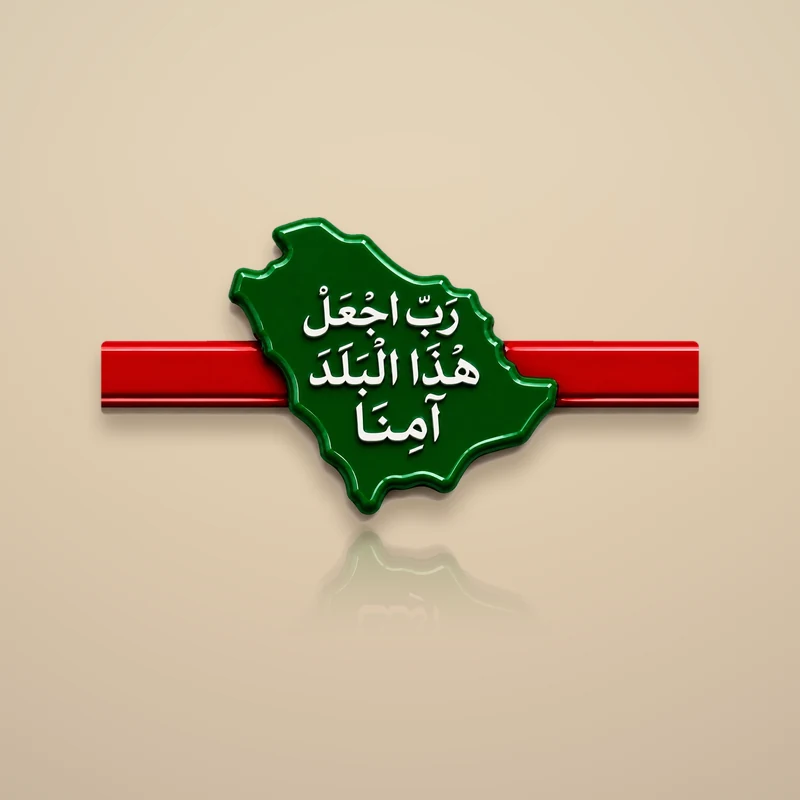
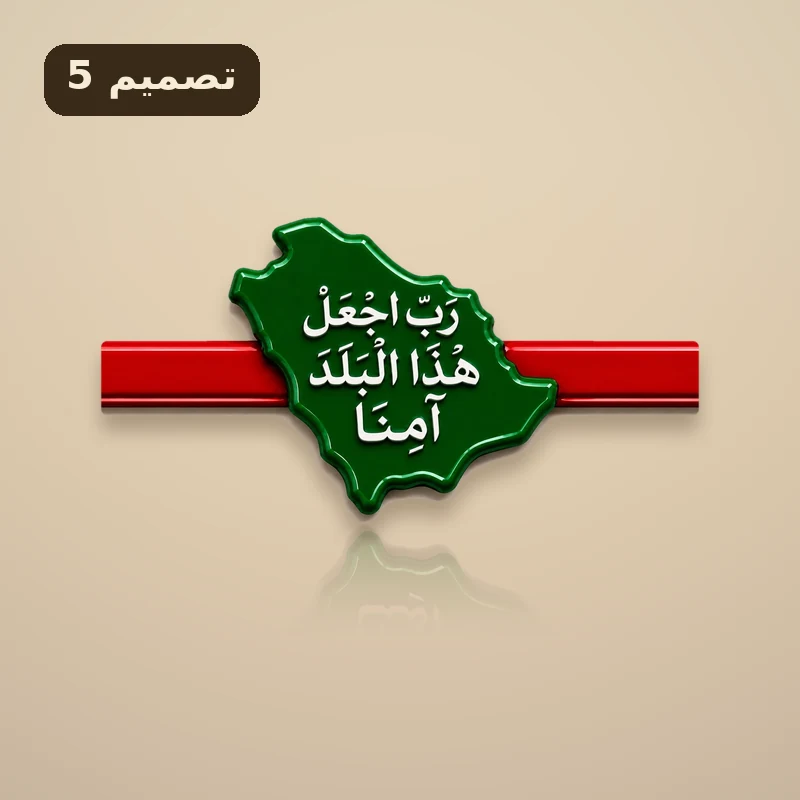
redline: سعر لكل تصميم حسب وزنه، اختيار رقم التصميم، رقم التصميم على كل صورة، عرض الـ100 يشمل الكل
Claude-Session: https://claude.ai/code/session_017P9QyCJgykdsNfd9KJgfgW

Changed region(s): [[0.0312, 0.0312, 0.3438, 0.1562]]

diff --git a/app.js b/app.js
@@ -5,14 +5,14 @@ const WEIGHT=Object.fromEntries([..._pd.match(/const WEIGHT=\{([\s\S]*?)\};/)[1]
 const IMG={"redline": {"thumb": "thumbs/redline.jpg"}, "cool": {"thumb": "thumbs/cool.jpg"}, "hdcookie": {"thumb": "thumbs/hdcookie.jpg"}, "batbox": {"thumb": "thumbs/batbox.jpg"}, "hdbuddy": {"thumb": "thumbs/hdbuddy.jpg"}, "hdtray": {"thumb": "thumbs/hdtray.jpg"}, "hdclock": {"thumb": "thumbs/hdclock.jpg"}, "wilson": {"thumb": "thumbs/wilson.jpg"}, "snoopy": {"thumb": "thumbs/snoopy.jpg"}, "pcorn": {"thumb": "thumbs/pcorn.jpg"}, "gmug": {"thumb": "thumbs/gmug.jpg"}, "drip": {"thumb": "thumbs/drip.jpg"}, "knobs": {"thumb": "thumbs/knobs.jpg"}, "xkit": {"thumb": "thumbs/xkit.jpg"}, "ttt": {"thumb": "thumbs/ttt.jpg"}, "fncs": {"thumb": "thumbs/fncs.jpg"}, "fish": {"thumb": "thumbs/fish.jpg"}, "disney": {"thumb": "thumbs/disney.jpg"}, "crown": {"thumb": "thumbs/crown.jpg"}, "ltr": {"thumb": "thumbs/ltr.jpg"}, "d2": {"thumb": "thumbs/d2.jpg"}, "d5": {"thumb": "thumbs/d5.jpg"}, "d6": {"thumb": "thumbs/d6.jpg"}, "skel": {"thumb": "thumbs/skel.jpg"}, "lamp": {"thumb": "thumbs/lamp.jpg"}, "lampman": {"thumb": "thumbs/lampman.jpg"}, "pmaskl": {"thumb": "thumbs/pmaskl.jpg"}, "pmaskm": {"thumb": "thumbs/pmaskm.jpg"}, "pmasks": {"thumb": "thumbs/pmasks.jpg"}, "cubea": {"thumb": "thumbs/cubea.jpg"}, "cubeb": {"thumb": "thumbs/cubeb.jpg"}, "ks1": {"thumb": "thumbs/ks1.jpg"}, "ks2": {"thumb": "thumbs/ks2.jpg"}, "ks3": {"thumb": "thumbs/ks3.jpg"}, "kcm": {"thumb": "thumbs/kcm.jpg"}, "chips": {"thumb": "thumbs/chips.jpg"}, "pringles": {"thumb": "thumbs/pringles.jpg"}, "clips": {"thumb": "thumbs/clips.jpg"}, "monk": {"thumb": "thumbs/monk.jpg"}, "ghost": {"thumb": "thumbs/ghost.jpg"}, "abst": {"thumb": "thumbs/abst.jpg"}, "w1": {"thumb": "thumbs/w1.jpg"}, "w2": {"thumb": "thumbs/w2.jpg"}, "w4": {"thumb": "thumbs/w4.jpg"}, "w5": {"thumb": "thumbs/w5.jpg"}, "vase": {"thumb": "thumbs/vase.jpg"}, "vase2": {"thumb": "thumbs/vase2.jpg"}, "vase3": {"thumb": "thumbs/vase3.jpg"}};
 const COLORS=[["اللون الأساسي",null],["أبيض","#f3f1ec"],["أسود","#242424"],["رمادي","#8f969a"],["أحمر","#cc2f2f"],["برتقالي","#ee7a1f"],["أصفر","#f2c22c"],["أخضر","#2f9a57"],["أزرق","#2a5cc8"],["بنفسجي","#7a4cc2"],["وردي","#ee6f9e"],["ذهبي","#c79a32"],["بني","#6e4a2e"]];
 const XIMG={redline:[1,2,3,4,5].map(n=>`hq/redline-x${n}.webp`),hdcookie:["hq/hdcookie-x1.webp"],batbox:["hq/batbox-x1.webp"]};   /* extra photos per piece (shown as small buttons over the main image): hq/<id>-x1.webp ... */
-const xth=id=>XIMG[id]?`<div class="xth">${[`hq/${id}-0.webp`,...XIMG[id]].map((s,i)=>`<button type="button" data-x="${s}"${i?"":' data-main="1"'} aria-pressed="${i===0}" aria-label="صورة ${i+1}"><img src="${s}" width="56" height="56" alt="" loading="lazy"></button>`).join("")}</div>`:"";
+const xth=id=>XIMG[id]?`<div class="xth">${[`hq/${id}-0.webp`,...XIMG[id]].map((s,i)=>`<button type="button" data-x="${s}"${i?"":' data-main="1"'} aria-pressed="${i===0}" aria-label="${DISTP[id]&&DISTP[id].v&&i?`تصميم ${i}`:`صورة ${i+1}`}"><img src="${s}" width="56" height="56" alt="" loading="lazy">${DISTP[id]&&DISTP[id].v&&i?`<i class="xn">${i}</i>`:""}</button>`).join("")}</div>`:"";
 const HID=new Set([9]); /* purple: not stocked, hidden from every colour picker (index kept so the 13-image numbering and old carts stay valid) */
 const OUT=new Set((()=>{try{const a=JSON.parse(localStorage.getItem("rax3d_out")||"null");if(Array.isArray(a))return COLORS.map((c,i)=>i&&a.includes(c[0])?i:0).filter(Boolean)}catch(_){}return[]})()); /* colours not in stock right now: last list from the invoicing app (stock tab, via the worker /stock), else 9 = purple */
 const DUCK="تعليقة سيارة أو ديكور طبلون", KS="ميدالية مفاتيح وستاند جوال", XB="إكسسوار مكينة xBloom";
 /* PRICES:START — generated from the invoicing-app formula (print file weight + time, shared settings). [single, wholesale(=set)] */
 const OLD={};
 /* عروض خاصة: DISTOFF = سعر الحبة المخفّض لشريحة توزيعات {id:{الكمية:سعر الحبة}}. أي قطعة لها سعر قديم في OLD أو عرض في DISTOFF تظهر تلقائيًا في قسم «التخفيضات» وعليها شارة «عرض خاص». */
-const DISTOFF={cool:{100:2.99},redline:{100:2.99}},SALE_CAT="التخفيضات",isSale=id=>!!(OLD[id]||(DISTOFF[id]&&Object.keys(DISTOFF[id]).length));
+const DISTOFF={cool:{100:2.99},redline:{100:2.99},"redline#3":{100:4.70}},SALE_CAT="التخفيضات",isSale=id=>!!(OLD[id]||(DISTOFF[id]&&Object.keys(DISTOFF[id]).length));
 /* PRICES:END */
 const ITEMS=[
  {id:"redline",cat:"التوزيعات",name:"السعودية خط أحمر",use:"خمسة تصاميم وطنية مجسمة للتوزيعات، ابتداءً من 50 حبة",sp:1},
@@ -185,18 +185,24 @@ function catView(c){
 /* Giveaway (التوزيعات) price tabs on the piece page: quantity tabs, each showing the unit price, the total and the approximate days.
    DISTP = per giveaway piece: g = grams, h = print hours per piece. Same formula, margins and floors as tools/dist-price.py and distUnit in the invoicing app:
    cost = (g*0.138 + h*1.15)*1.05 + 0.5; price = max(ceil((cost + 1.2/q)/(0.968 - margin)) to 0.05, floor); days = ceil(q*h/24) + DIST_BUF (prep + packing). A new giveaway only needs its entry here. */
-const DISTX={redline:{n:3,p:4.70}}; /* design that costs much more than the average (plate 3 of redline, 3.52 cost): one price, net about 1 SAR per piece at every quantity */
-const DISTP={redline:{g:8.68,h:0.611},cool:{g:2.55,h:0.357}},DIST_T=[[50,25,3.75],[100,20,3.40],[500,15,3.00],[1000,10,2.65]],DIST_BUF=2;
-function distRow(id,q){const d=DISTP[id],t=DIST_T.find(x=>x[0]===q);if(!d||!t)return null;const cost=(d.g*0.138+d.h*1.15)*1.05+0.5,raw=Math.ceil(((cost+1.2/q)/(0.968-t[1]/100))/0.05-1e-9)*0.05,p0=Math.round(Math.max(raw,t[2])*100)/100,off=(DISTOFF[id]||{})[q],p=off||p0;return{q,p,tot:Math.round(p*q),days:Math.ceil(q*d.h/24-1e-9)+DIST_BUF,old:off&&off<p0?{p:p0,tot:Math.round(p0*q)}:null}}
+const DISTX={"redline#3":{50:4.95,100:4.85,500:4.75,1000:4.70}}; /* price overrides per design {id#n:{qty:price}}: redline design 3 (plate 3, cost 3.52) is priced so the net stays >= 1 SAR per piece at every quantity, still falling with the quantity */
+const DISTP={redline:{def:1,v:{1:{g:7.80,h:0.5772},2:{g:6.54,h:0.5106},3:{g:13.69,h:0.8611},4:{g:7.67,h:0.5508},5:{g:7.70,h:0.5556}}},cool:{g:2.55,h:0.357}},DIST_T=[[50,25,3.75],[100,20,3.40],[500,15,3.00],[1000,10,2.65]],DIST_BUF=2;
+function distRow(id,q,n){const D=DISTP[id],t=DIST_T.find(x=>x[0]===q);if(!D||!t)return null;if(D.v&&!n)n=D.def||1;const d=D.v?D.v[n]:D;if(!d)return null;const k=D.v?id+"#"+n:id,cost=(d.g*0.138+d.h*1.15)*1.05+0.5,raw=Math.ceil(((cost+1.2/q)/(0.968-t[1]/100))/0.05-1e-9)*0.05,ov=(DISTX[k]||{})[q],p0=ov||Math.round(Math.max(raw,t[2])*100)/100,off=(DISTOFF[k]||DISTOFF[id]||{})[q],p=off||p0;return{q,n,p,tot:Math.round(p*q),days:Math.ceil(q*d.h/24-1e-9)+DIST_BUF,old:off&&off<p0?{p:p0,tot:Math.round(p0*q)}:null}}
+const distNs=id=>DISTP[id]&&DISTP[id].v?Object.keys(DISTP[id].v).map(Number):[],distMin=(id,q)=>distNs(id).length?Math.min(...distNs(id).map(n=>distRow(id,q,n).p)):distRow(id,q).p;
+function distSel(id,n){const pn=$("#dpanel");if(!pn)return;pn.dataset.n=n;pn.innerHTML=distPanel(id,+pn.dataset.q,n);document.querySelectorAll(".dsel button").forEach(b=>b.setAttribute("aria-selected",+b.dataset.dn===n));const x=XIMG[id]&&XIMG[id][n-1],p=$("#pv");if(x&&p){p.src=x;document.querySelectorAll(".xth button").forEach(b=>b.setAttribute("aria-pressed",b.dataset.x===x))}}
 function distDays(n){return LANG==="en"?`About ${n} day${n>1?"s":""}`:`نحو ${n} ${n<=2?(n===1?"يوم":"يومين"):n<=10?"أيام":"يومًا"}`}
-function distPanel(id,q){const r=distRow(id,q),L=LANG==="en";if(!r)return"";const o=r.old;return (o?`<div class="dp-sale">🔥 ${L?"Special offer":"عرض خاص"}</div>`:"")+`<div class="dp-row"><span>${L?"Price per piece":"سعر الحبة"}</span><b>${o?`<s class="old">${o.p.toFixed(2)}</s> `:""}${r.p.toFixed(2)} ${L?"SAR":"ريال"}</b></div><div class="dp-row"><span>${L?"Total":"الإجمالي"}</span><b>${o?`<s class="old">${o.tot.toLocaleString("en-US")}</s> `:""}${r.tot.toLocaleString("en-US")} ${L?"SAR":"ريال"}</b></div><div class="dp-row"><span>${L?"Approx. time":"المدة التقريبية"}</span><b>${distDays(r.days)}</b></div>`+(DISTX[id]?`<div class="dp-row"><span>${L?`Design no. ${DISTX[id].n} (large Saudi Red Line), per piece`:`التصميم رقم ${DISTX[id].n} («السعودية خط أحمر» الكبير)، للحبة`}</span><b>${DISTX[id].p.toFixed(2)} ${L?"SAR":"ريال"}</b></div><p class="note">${L?"This heavier design has one price for every quantity and is not part of the special offer.":"هذا التصميم أثقل، وله سعر واحد لكل الكميات ولا يشمله العرض الخاص."}</p>`:"")}
-function distBox(it){if(!DISTP[it.id])return"";const L=LANG==="en";return `<div class="dbox"><div class="lbl">${L?"Quantity":"العدد"}</div><div class="dtabs" role="tablist">${DIST_T.map((t,i)=>`<button type="button" role="tab" data-dq="${t[0]}" data-di="${it.id}" aria-selected="${i===0}">${t[0]}${L?" pcs":" حبة"}${(DISTOFF[it.id]||{})[t[0]]?`<i class="tsale">${L?"Special offer":"عرض خاص"}</i>`:""}</button>`).join("")}</div><div class="dpanel" id="dpanel" data-q="${DIST_T[0][0]}" role="tabpanel">${distPanel(it.id,DIST_T[0][0])}</div><p class="note">${L?"Prices and time are approximate for this piece; we agree the details by message for your occasion and date. For another quantity, or more than 1000, message us.":"الأسعار والمدة تقريبية لهذه القطعة، ونتفق على التفاصيل بالخاص حسب مناسبتك وموعدها. وللكميات الأخرى أو أكثر من 1000 كلّمنا بالخاص."}</p></div>`}
+function distPanel(id,q,n){const L=LANG==="en",ns=distNs(id),r=distRow(id,q,n);if(!r)return"";const o=r.old,S=L?"SAR":"ريال";
+ let h=ns.length?`<div class="dp-row"><span>${L?"Design":"التصميم"}</span><b>${L?"No. ":"رقم "}${r.n}</b></div>`:"";
+ h+=(o?`<div class="dp-sale">🔥 ${L?"Special offer":"عرض خاص"}</div>`:"")+`<div class="dp-row"><span>${L?"Price per piece":"سعر الحبة"}</span><b>${o?`<s class="old">${o.p.toFixed(2)}</s> `:""}${r.p.toFixed(2)} ${S}</b></div><div class="dp-row"><span>${L?"Total":"الإجمالي"}</span><b>${o?`<s class="old">${o.tot.toLocaleString("en-US")}</s> `:""}${r.tot.toLocaleString("en-US")} ${S}</b></div><div class="dp-row"><span>${L?"Approx. time":"المدة التقريبية"}</span><b>${distDays(r.days)}</b></div>`;
+ if(ns.length>1){const rows=ns.map(k=>distRow(id,q,k)).sort((a,b)=>b.p-a.p||a.n-b.n);h+=`<div class="dall"><div class="dall-h">${L?`All designs at ${q} pieces, highest price first`:`كل التصاميم عند ${q} حبة، من الأعلى سعرًا للأقل`}</div>${rows.map(x=>`<button type="button" class="dall-r" data-dn="${x.n}" data-di="${id}" aria-pressed="${x.n===r.n}"><span>${L?"Design":"تصميم"} ${x.n}</span><b>${x.old?`<s class="old">${x.old.p.toFixed(2)}</s> `:""}${x.p.toFixed(2)} ${S}</b></button>`).join("")}</div>`}
+ return h}
+function distBox(it){if(!DISTP[it.id])return"";const L=LANG==="en";return `<div class="dbox">${distNs(it.id).length?`<div class="lbl">${L?"Design number":"رقم التصميم"}</div><div class="dsel" role="tablist">${distNs(it.id).map(n=>`<button type="button" role="tab" data-dn="${n}" data-di="${it.id}" aria-selected="${n===DISTP[it.id].def}"><img src="hq/${it.id}-x${n}.webp" width="64" height="64" alt="" loading="lazy"><b>${n}</b></button>`).join("")}</div>`:""}<div class="lbl">${L?"Quantity":"العدد"}</div><div class="dtabs" role="tablist">${DIST_T.map((t,i)=>`<button type="button" role="tab" data-dq="${t[0]}" data-di="${it.id}" aria-selected="${i===0}">${t[0]}${L?" pcs":" حبة"}${(DISTOFF[it.id]||{})[t[0]]?`<i class="tsale">${L?"Special offer":"عرض خاص"}</i>`:""}</button>`).join("")}</div><div class="dpanel" id="dpanel" data-q="${DIST_T[0][0]}" data-n="${DISTP[it.id].def||0}" role="tabpanel">${distPanel(it.id,DIST_T[0][0],DISTP[it.id].def)}</div><p class="note">${L?"Prices and time are approximate for this piece; we agree the details by message for your occasion and date. For another quantity, or more than 1000, message us.":"الأسعار والمدة تقريبية لهذه القطعة، ونتفق على التفاصيل بالخاص حسب مناسبتك وموعدها. وللكميات الأخرى أو أكثر من 1000 كلّمنا بالخاص."}</p></div>`}
 function itemView(id){   /* the piece page: photo + details only. Editing happens on the customise page (editView). */
   const it=ITEMS.find(i=>i.id===id);cur=null;$("#ttl").textContent=it.name;
   $("#main").innerHTML=`<div class="pwrap"><div class="pic"><img id="pv" src="hq/${it.id}-0.webp" width="800" height="800" alt="${it.name}" decoding="async">${xth(it.id)}</div>
   <div class="pinfo">
   <div class="hd"><h1>${it.name}</h1><span class="use">${it.use}</span></div>${dsc(it)?`<p class="pdesc">${dsc(it)}</p>`:""}
-  <div class="price">${PRICE[it.id]?`<b>السعر: ${PRICE[it.id][0]} ريال</b>${OLD[it.id]?`<s class="old">${OLD[it.id]} ريال</s>`:""}${isFinite(WQ(it.id))?`<span>الجملة: ${PRICE[it.id][1]} ريال للحبة من ${WQ(it.id)} حبة</span>`:""}<span class="shipn">🚚 التوصيل: ${PAY.ship||DELIV_FEE} ريال · التجهيز: من 3 إلى 7 أيام${isFinite(WQ(it.id))?" · الجملة بالخاص: عربون 25% والمدة حسب الطلب والعدد":""}</span>`:(DISTP[it.id]?(LANG==="en"?`<b>Price by quantity</b><span>From ${distRow(it.id,1000).p.toFixed(2)} SAR per piece</span>`:`<b>السعر حسب العدد</b><span>من ${distRow(it.id,1000).p.toFixed(2)} ريال للحبة</span>`):`<b>السعر بالخاص</b>`)}</div>
+  <div class="price">${PRICE[it.id]?`<b>السعر: ${PRICE[it.id][0]} ريال</b>${OLD[it.id]?`<s class="old">${OLD[it.id]} ريال</s>`:""}${isFinite(WQ(it.id))?`<span>الجملة: ${PRICE[it.id][1]} ريال للحبة من ${WQ(it.id)} حبة</span>`:""}<span class="shipn">🚚 التوصيل: ${PAY.ship||DELIV_FEE} ريال · التجهيز: من 3 إلى 7 أيام${isFinite(WQ(it.id))?" · الجملة بالخاص: عربون 25% والمدة حسب الطلب والعدد":""}</span>`:(DISTP[it.id]?(LANG==="en"?`<b>Price by quantity</b><span>From ${distMin(it.id,1000).toFixed(2)} SAR per piece</span>`:`<b>السعر حسب العدد</b><span>من ${distMin(it.id,1000).toFixed(2)} ريال للحبة</span>`):`<b>السعر بالخاص</b>`)}</div>
   ${it.vg?`<div class="vsel"><span class="lbl">${it.vt||"نوع التصميم"}</span><div class="vopts">${ITEMS.filter(x=>x.vg===it.vg).map(x=>`<button type="button" data-var="${x.id}" aria-pressed="${x.id===it.id}"><b>${x.vl}</b><small>${x.vs}</small><em>${PRICE[x.id]?SAR(PRICE[x.id][0]):""}</em></button>`).join("")}</div></div>`:""}
   ${it.sp?`${DISTP[it.id]?distBox(it):`<p class="note">توزيعات ابتداءً من 50 حبة، والسعر والمدة نتفق عليهما بالخاص حسب العدد.</p>`}<button type="button" class="btn gold" data-distask="${it.id}">اطلب التوزيعات بالخاص</button>`:`<p class="note">متوفرة بـ ${COLORS.filter((c,i)=>i&&!HID.has(i)&&!OUT.has(i)).length} لون، وتقدر تعدّل مقاسها حتى ${MAXD} مم.</p>
   <button type="button" class="btn gold" data-edit="${it.id}">${MODELS[it.id]?"🧊 شوفها 3D واختر اللون وأضفها للطلب":"🎨 اختر اللون والمقاس وأضفها للطلب"}</button>
@@ -443,8 +449,9 @@ document.addEventListener("click",e=>{   /* mixed-colour (special order) option 
  t.setAttribute("aria-pressed",cur.mc.includes(i));const nm=cur.mc.map(x=>LANG==="en"?tr(COLORS[x][0]):COLORS[x][0]);$("#mcSelRow").hidden=!nm.length;$("#mcNames").textContent=nm.join(LANG==="en"?", ":"، ");sumUI()});
 document.addEventListener("click",e=>{
  const t=e.target.closest("button");if(!t)return;
- if(t.dataset.dq){const q=+t.dataset.dq,pn=$("#dpanel");if(pn){pn.dataset.q=q;pn.innerHTML=distPanel(t.dataset.di,q);t.parentNode.querySelectorAll("button").forEach(b=>b.setAttribute("aria-selected",b===t))}return}
- if(t.dataset.x){const p=$("#pv");if(p){let s=t.dataset.x;if(t.dataset.main&&typeof cur!=="undefined"&&cur&&cur.it)s=`hq/${cur.it.id}-${cur.color}.webp`;p.src=s;document.querySelectorAll(".xth button").forEach(b=>b.setAttribute("aria-pressed",b===t))}return}
+ if(t.dataset.dn){distSel(t.dataset.di,+t.dataset.dn);return}
+ if(t.dataset.dq){const q=+t.dataset.dq,pn=$("#dpanel");if(pn){pn.dataset.q=q;pn.innerHTML=distPanel(t.dataset.di,q,+pn.dataset.n||0);t.parentNode.querySelectorAll("button").forEach(b=>b.setAttribute("aria-selected",b===t))}return}
+ if(t.dataset.x){const p=$("#pv");if(p){let s=t.dataset.x;if(t.dataset.main&&typeof cur!=="undefined"&&cur&&cur.it)s=`hq/${cur.it.id}-${cur.color}.webp`;p.src=s;document.querySelectorAll(".xth button").forEach(b=>b.setAttribute("aria-pressed",b===t));const m=/^hq\/(\w+)-x(\d+)\.webp$/.exec(t.dataset.x);if(m&&DISTP[m[1]]&&DISTP[m[1]].v&&$("#dpanel")){distSel(m[1],+m[2])}}return}
  if(t.id==="cartBtn"){if(hist[hi].v!=="cart")go({v:"cart"})}
  else if(t.hasAttribute("data-home")){closeDrawer();if(hist[hi].v!=="home")go({v:"home"})}
  else if(t.dataset.cat){closeDrawer();const v=hist[hi];if(!(v.v==="cat"&&v.cat===t.dataset.cat))go({v:"cat",cat:t.dataset.cat})}
@@ -609,7 +616,7 @@ const POL_EN={
 };
 function openPol(k){const p=(LANG==="en"?POL_EN:POL)[k];if(!p)return;$("#pt").textContent=p[0];$("#pbody").innerHTML=p[1];$("#pbg").hidden=false}
 document.addEventListener("click",e=>{const t=e.target.closest("button");if(!t)return;
- if(t.dataset.distask){const it=ITEMS.find(x=>x.id===t.dataset.distask),L=LANG==="en";copyText(L?`Hello RAX3D 👋\n\nI'd like to order giveaways:\n\n* Piece: ${tr(it.name)}\n* Quantity (50 or more): ${$("#dpanel")?$("#dpanel").dataset.q:""}\n* Occasion / date: `:`مرحبًا RAX3D 👋\n\nأرغب بطلب توزيعات:\n\n* القطعة: ${it.name}\n* العدد (50 حبة فأكثر): ${$("#dpanel")?$("#dpanel").dataset.q:""}\n* المناسبة وموعدها: `);pickChannel(false);$("#cnote").textContent=L?"Your request message is copied — paste it in the chat. On TikTok open our profile and tap Message.":"نسخنا رسالة طلبك، الصقها في المحادثة. في تيك توك ادخل حسابنا واضغط رسالة.";return}
+ if(t.dataset.distask){const it=ITEMS.find(x=>x.id===t.dataset.distask),L=LANG==="en";copyText(L?`Hello RAX3D 👋\n\nI'd like to order giveaways:\n\n* Piece: ${tr(it.name)}\n${$("#dpanel")&&+$("#dpanel").dataset.n?`* Design no.: ${$("#dpanel").dataset.n}\n`:""}* Quantity (50 or more): ${$("#dpanel")?$("#dpanel").dataset.q:""}\n* Occasion / date: `:`مرحبًا RAX3D 👋\n\nأرغب بطلب توزيعات:\n\n* القطعة: ${it.name}\n${$("#dpanel")&&+$("#dpanel").dataset.n?`* رقم التصميم: ${$("#dpanel").dataset.n}\n`:""}* العدد (50 حبة فأكثر): ${$("#dpanel")?$("#dpanel").dataset.q:""}\n* المناسبة وموعدها: `);pickChannel(false);$("#cnote").textContent=L?"Your request message is copied — paste it in the chat. On TikTok open our profile and tap Message.":"نسخنا رسالة طلبك، الصقها في المحادثة. في تيك توك ادخل حسابنا واضغط رسالة.";return}
  if(t.dataset.edit){go({v:"edit",id:t.dataset.edit});return}
  if(t.dataset.pol)openPol(t.dataset.pol);else if(t.id==="pclose"||t.id==="pok")$("#pbg").hidden=true;
  else if(t.hasAttribute("data-shop")){const h=document.getElementById("newHd");if(h)h.scrollIntoView({behavior:"smooth",block:"start"})}});

diff --git a/index.html b/index.html
@@ -286,6 +286,9 @@ textarea{font:inherit;font-size:16px;width:100%;padding:10px 12px;border-radius:
 .dbox{margin:14px 0 10px}.dbox .lbl{font-size:13px;color:var(--muted);margin-bottom:6px}
 .dtabs{display:grid;grid-template-columns:repeat(4,1fr);gap:6px}.dtabs button{border:1px solid var(--line);background:var(--surface);color:var(--fg);border-radius:12px;padding:10px 4px;font:inherit;font-weight:600;font-size:14px;cursor:pointer;transition:background .15s,border-color .15s}
 .dtabs button[aria-selected="true"]{background:var(--accent);color:var(--accent-fg);border-color:var(--accent)}
+.dsel{display:grid;grid-template-columns:repeat(5,1fr);gap:6px;margin-bottom:12px}.dsel button{position:relative;padding:0;border:2px solid var(--line);border-radius:12px;overflow:hidden;background:var(--stage,#e8d9be);cursor:pointer;aspect-ratio:1}.dsel button img{width:100%;height:100%;object-fit:cover;display:block}.dsel button b{position:absolute;top:4px;inset-inline-start:4px;min-width:20px;height:20px;border-radius:999px;background:var(--ink);color:var(--bg);font-size:12px;display:grid;place-items:center;padding:0 4px}.dsel button[aria-selected="true"]{border-color:var(--accent);box-shadow:0 0 0 2px var(--accent)}
+.xth button{position:relative}.xth .xn{position:absolute;top:2px;inset-inline-start:2px;min-width:16px;height:16px;border-radius:999px;background:var(--ink);color:var(--bg);font:700 10px/16px inherit;font-style:normal;text-align:center}
+.dall{margin-top:8px;padding-top:6px;border-top:1px solid var(--line)}.dall-h{font-size:12.5px;color:var(--muted);padding:4px 0}.dall-r{display:flex;justify-content:space-between;align-items:baseline;width:100%;padding:8px 10px;margin:3px 0;border:1px solid var(--line);border-radius:10px;background:var(--surface);color:var(--fg);font:inherit;font-size:14px;cursor:pointer}.dall-r[aria-pressed="true"]{border-color:var(--accent);background:rgba(138,106,44,.1)}
 .dpanel{margin:10px 0 8px;border:1px solid var(--line);border-radius:14px;background:var(--surface);padding:6px 14px}
 .dp-row{display:flex;justify-content:space-between;align-items:baseline;gap:10px;padding:9px 0;border-bottom:1px dashed var(--line)}.dp-row:last-child{border-bottom:0}.dp-row span{color:var(--muted);font-size:14px}.dp-row b{font-size:17px;color:var(--ink)}
 .added{position:fixed;left:50%;transform:translateX(-50%);bottom:calc(84px + env(safe-area-inset-bottom,0px));background:var(--ink);color:var(--bg);padding:10px 18px;border-radius:999px;font-size:14px;z-index:30}

diff --git a/sw.js b/sw.js
@@ -1,7 +1,7 @@
 // RAX3D shop: network first (always fresh), falls back to cache when offline.
 // v38: points.json is network-only (never cached), old caches are deleted on activate,
 // and 3D models (models/) are capped to the last 8 used so phones don't fill up.
-const C = 'rax3d-shop-v268', M = 'rax3d-models-v104', MAX_MODELS = 8;
+const C = 'rax3d-shop-v269', M = 'rax3d-models-v104', MAX_MODELS = 8;
 self.addEventListener('install', e => self.skipWaiting());
 self.addEventListener('activate', e => e.waitUntil(
   caches.keys().then(ks => Promise.all(ks.filter(k => k !== C && k !== M).map(k => caches.delete(k)))).then(() => self.clients.claim())

diff --git a/tools/crowd-mix.py b/tools/crowd-mix.py
@@ -8,7 +8,7 @@ hq/<id>-x1..xN.webp (one image per design: piece centred on the site's cream bac
 Needs: pillow, numpy. The images are computer-composed from renders of the 3MF: say so when presenting them."""
 import random,argparse
 import numpy as np
-from PIL import Image,ImageFilter
+from PIL import Image,ImageFilter,ImageDraw,ImageFont
 ap=argparse.ArgumentParser();ap.add_argument('id');ap.add_argument('--pieces',nargs='+',required=True);ap.add_argument('--hero',type=int,default=1);ap.add_argument('--seed',type=int,default=7);a=ap.parse_args()
 random.seed(a.seed)
 def bg():
@@ -30,12 +30,17 @@ def vignette(canvas):
     yy,xx=np.mgrid[0:800,0:800];dx=np.abs(xx-400)/400.;dy=(yy-420)/420.;v=np.clip((np.sqrt(dx**2+dy**2*.9)-.56)/.38,0,1)**1.4
     res=np.array(canvas.convert('RGB')).astype(np.float32);res=res*(1-v[...,None]*.85)+np.array(BG.convert('RGB')).astype(np.float32)*v[...,None]*.85
     return Image.fromarray(res.clip(0,255).astype(np.uint8))
+def badge(img,n):
+    """design-number tag in the top corner of each per-design image: a dark pill 'تصميم N' (Pillow built with raqm)"""
+    txt=f'تصميم {n}'   # Pillow with raqm shapes Arabic itself
+    f=ImageFont.truetype('/usr/share/fonts/truetype/dejavu/DejaVuSans-Bold.ttf',40);d=ImageDraw.Draw(img);b=d.textbbox((0,0),txt,font=f);w,h=b[2]-b[0],b[3]-b[1]
+    x0,y0=44,44;d.rounded_rectangle((x0,y0,x0+w+44,y0+h+32),22,fill=(58,42,24,235));d.text((x0+22-b[0],y0+16-b[1]),txt,font=f,fill=(246,236,214,255))
 # one image per design
 for i,p in enumerate(P,1):
     s=min(600/p.width,430/p.height);img=p.resize((max(2,int(p.width*s)),max(2,int(p.height*s))),Image.LANCZOS)
     out=BG.copy();px=(800-img.width)//2;py=(800-img.height)//2-30
     shadow(img,out,px,py,16,9,.34);out.alpha_composite(img,(px,py));reflect(img,out,px,py)
-    Image.fromarray(np.array(out.convert('RGB'))).save(f'hq/{a.id}-x{i}.webp','WEBP',quality=88,method=6)
+    out=out.convert('RGBA');badge(out,i);Image.fromarray(np.array(out.convert('RGB'))).save(f'hq/{a.id}-x{i}.webp','WEBP',quality=88,method=6)
 # crowd scene
 W0=440;H=P[a.hero-1].height*W0/P[a.hero-1].width;RATIO=.80;G=108;base0=625
 counts=[1,3,4,5,6,7,8,9,10,11,12];blurs=[0,.6,1.2,1.9,2.6,3.3,3.8,4.2,4.5,4.8,5];fades=[0,.05,.11,.18,.26,.35,.45,.55,.65,.73,.80]

diff --git a/CLAUDE.md b/CLAUDE.md
@@ -190,4 +190,5 @@ For every new or re-priced product, check the wholesale price before publishing:
 - Tier prices by the standard formula: 50 = 3.75 (188), 100 = 3.40 (340), 500 = 3.10 (1,550), 1000 = 2.90 (2,900); header «ابتداءً من 2.90». Special offer on the 100 tab: 2.99 per piece = 299 SAR (`DISTOFF.redline`), same ratio as cool's offer; net about 0.39 per piece (12.9%).
 - Images: `hq/redline-0.webp` = crowd scene of all five designs (hero = «السعودية خط أحمر»); `hq/redline-x1..x5.webp` = one image per design, registered in `XIMG` (owner asked for the five); designs 4 and 5 use the owner's two glossy pictures cut out on the cream background, the other three are computer renders of the 3MF meshes (`tools/crowd-mix.py` composes them). All computer-composed: say so.
 - Added first in `NEW` (wilson moved from the end of NEW to the first of FEATURED, pcorn dropped from FEATURED) and first in the `DIST` strip. New products since the last pack: 1 of 20.
-- Design 3 (plate 3, the large green «السعودية خط أحمر», 13.69 g / 0.861 h, cost 3.52 per piece) loses money at the average tier prices, so it has its own price in `DISTX.redline`: 4.70 SAR per piece at EVERY quantity (net about 1.00 to 1.02 SAR, 21%), not part of the 100-piece offer. Image order now follows the Bambu plate numbers: x1 sword map, x2 red script, x3 = plate 3, x4 and x5 the two maps; hero = x3.
+- UPDATE 11-15 (owner): every design has its OWN price from its own plate weight/time (`DISTP.redline.v[1..5]`, g/h = the plate totals above), with a design-number selector (buttons with the design picture and number) on the piece page, a number badge baked into each `redline-xN.webp` («تصميم N», by `tools/crowd-mix.py`) and a number tag on the small thumbs; the panel also lists all five designs for the chosen quantity, highest price first. The order message carries the design number. Standard formula + floors for designs 1, 2, 4, 5 (50: 3.75, 100: 3.40, 500: 3.00, 1000: 2.65; design 1 = 2.70 at 1000). Design 3 (13.69 g / 0.861 h, cost 3.52) loses money at those prices, so `DISTX["redline#3"]` = 50: 4.95, 100: 4.85, 500: 4.75, 1000: 4.70 (still falling with quantity, net 1.02 to 1.24 SAR per piece, owner asked for at least 1). Special offer at 100 pcs covers ALL designs: 2.99 (designs 1, 2, 4, 5) and 4.70 (design 3, net 1.01); `DISTOFF.redline` and `DISTOFF["redline#3"]`. Header «ابتداءً من 2.65». The earlier flat 4.70 / average-weight lines above are superseded.
+- Design numbers = Bambu plate numbers; plates 4 and 5 (7.67 g / 7.70 g, same price) are assigned to the «بالغوا…» map = 4 and «رب اجعل…» map = 5 (not verified which is which).
